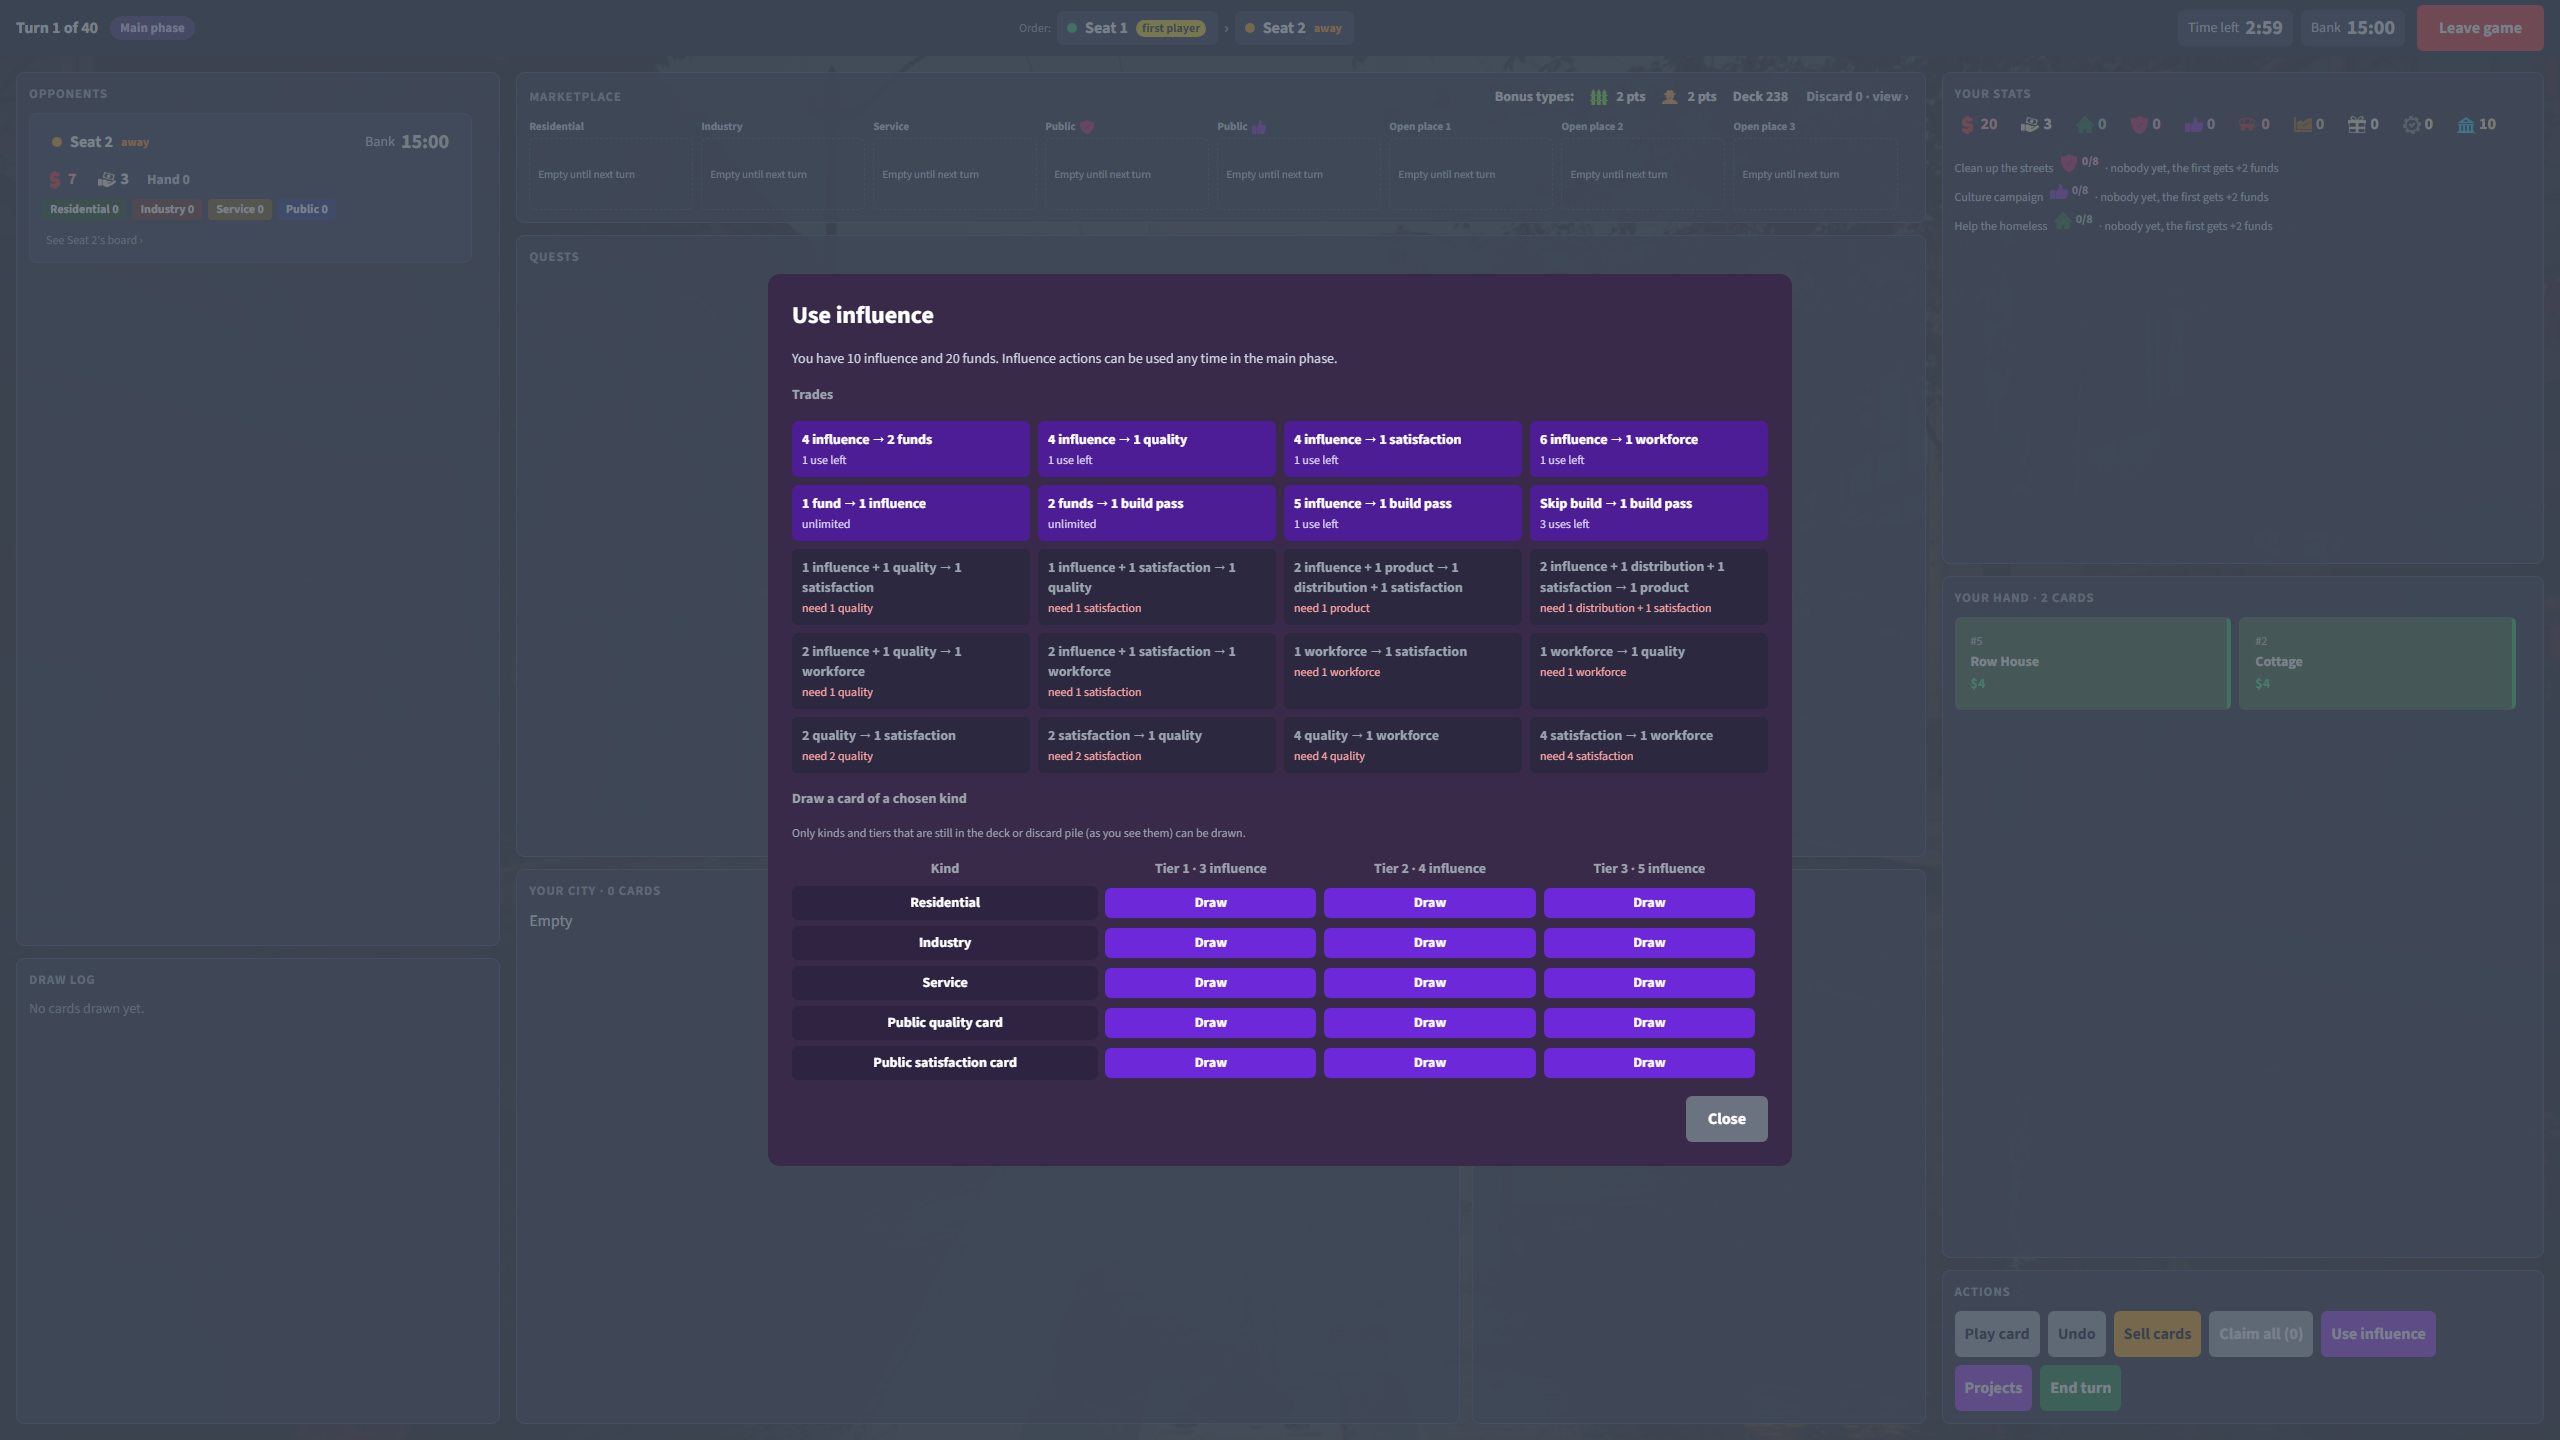
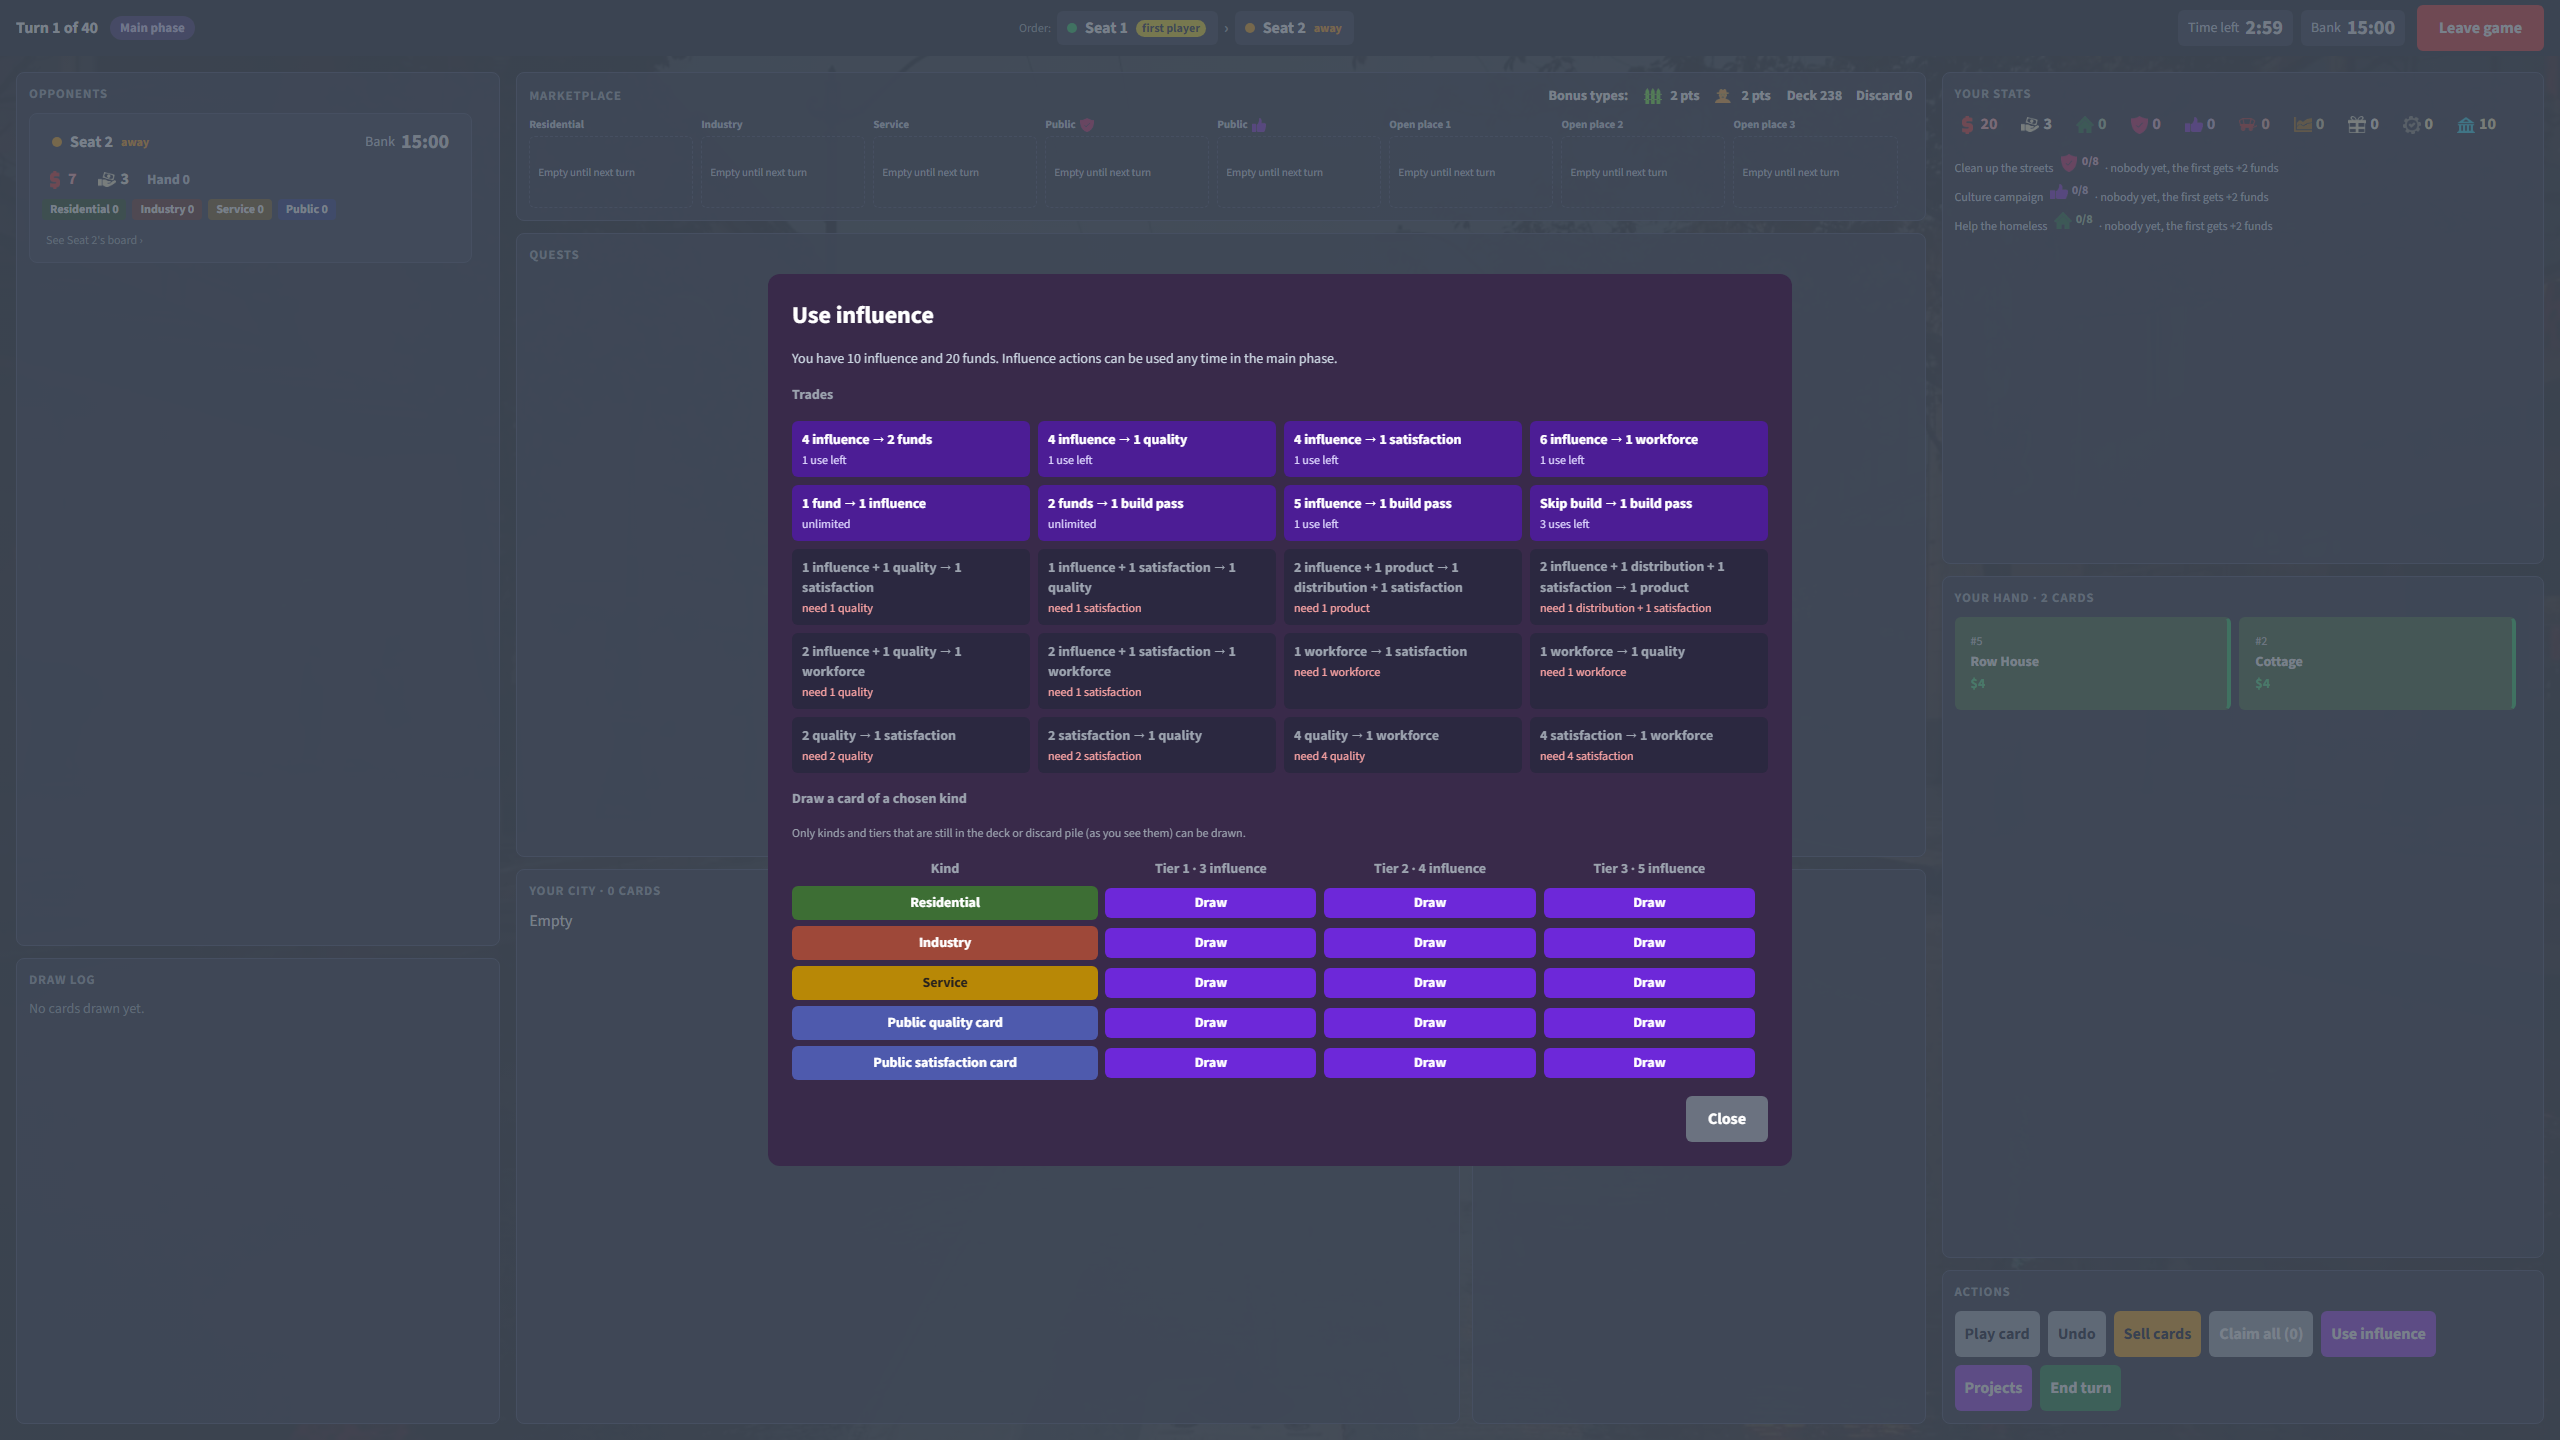
CLIENT: Sector names in quest requirements in their sector colour; the draw table's kind names on their sector colour (S1.5, S5.1, S8.3)

Changed region(s): [[0.3125, 0.5938, 0.4375, 0.75], [0.5938, 0.0625, 0.75, 0.0938]]

diff --git a/src/client/tokens.css b/src/client/tokens.css
@@ -85,6 +85,7 @@
   --color-pending-overlay: #000000;
   --color-sector-industry-base: rgba(158, 72, 57, 0.8);
   --color-sector-industry-card: rgba(214, 55, 30, 0.4);
+  --color-sector-industry-light: #c59188;
   --color-sector-industry-pressed: rgba(171, 85, 70, 0.6);
   --color-sector-industry-solid-text: #ffffff;
   --color-sector-industry-solid: #9e4839;
@@ -93,6 +94,7 @@
   --color-sector-industry-tier3: rgba(48, 8, 0, 0.6);
   --color-sector-public-base: rgba(78, 90, 173, 0.8);
   --color-sector-public-card: rgba(31, 78, 207, 0.4);
+  --color-sector-public-light: #959cce;
   --color-sector-public-pressed: rgba(109, 116, 179, 0.6);
   --color-sector-public-solid-text: #ffffff;
   --color-sector-public-solid: #4e5aad;
@@ -101,6 +103,7 @@
   --color-sector-public-tier3: rgba(3, 15, 94, 0.6);
   --color-sector-residential-base: rgba(61, 110, 52, 0.8);
   --color-sector-residential-card: rgba(39, 148, 19, 0.4);
+  --color-sector-residential-light: #8ba885;
   --color-sector-residential-pressed: rgba(88, 138, 76, 0.6);
   --color-sector-residential-solid-text: #ffffff;
   --color-sector-residential-solid: #3d6e34;
@@ -109,6 +112,7 @@
   --color-sector-residential-tier3: rgba(11, 43, 3, 0.6);
   --color-sector-service-base: rgba(184, 136, 6, 0.8);
   --color-sector-service-card: rgba(227, 194, 57, 0.4);
+  --color-sector-service-light: #d4b86a;
   --color-sector-service-pressed: rgba(214, 164, 39, 0.6);
   --color-sector-service-solid-text: #29231e;
   --color-sector-service-solid: #b88806;

diff --git a/src/client/screens/game/DrawActionTable.tsx b/src/client/screens/game/DrawActionTable.tsx
@@ -2,8 +2,10 @@ import { Kind } from "../../../shared/catalogue/Kind";
 import { Tier } from "../../../shared/catalogue/Tier";
 import { DRAW_ACTION_COSTS } from "../../../shared/DRAW_ACTION_COSTS";
 import type { DrawActionStatus } from "../../../shared/DrawActionStatus";
+import { sectorColor } from "../../components/sectorColor";
 import { DrawActionCell } from "./DrawActionCell";
 import styles from "./InfluenceDialog.module.css";
+import { sectorOfKind } from "./sectorOfKind";
 
 type Props = {
   readonly drawActions: ReadonlyArray<DrawActionStatus>;
@@ -27,7 +29,14 @@ export function DrawActionTable({ drawActions, isBusy, onDraw }: Props) {
       <tbody>
         {Kind.options.map((kind) => (
           <tr key={kind}>
-            <th scope="row" className={styles["kind"]}>
+            <th
+              scope="row"
+              className={styles["kind"]}
+              style={{
+                background: sectorColor(sectorOfKind(kind), "solid"),
+                color: sectorColor(sectorOfKind(kind), "solid-text"),
+              }}
+            >
               {kind}
             </th>
             {Tier.options.map((tier) => (

diff --git a/src/client/screens/game/QuestProgressLine.tsx b/src/client/screens/game/QuestProgressLine.tsx
@@ -4,6 +4,7 @@ import { STAT_ICONS } from "../../icons/STAT_ICONS";
 import { QuestPart } from "./QuestPart";
 import { questNeedIconFile } from "./questNeedIconFile";
 import { questNeedLabel } from "./questNeedLabel";
+import { questNeedSector } from "./questNeedSector";
 import styles from "./QuestsPanel.module.css";
 
 type Props = {
@@ -32,6 +33,7 @@ export function QuestProgressLine({ name, progress, needs }: Props) {
               key={label}
               amount={`${String(have)}/${String(need.count)}`}
               label={label}
+              sector={questNeedSector(need)}
               iconFile={questNeedIconFile(need)}
               spokenText={`${label} ${String(have)} of ${String(need.count)}`}
             />
@@ -44,6 +46,7 @@ export function QuestProgressLine({ name, progress, needs }: Props) {
               key={stat}
               amount={`${String(value)}/0`}
               label={label}
+              sector={null}
               iconFile={STAT_ICONS[stat].file}
               spokenText={`${label} ${String(value)} of 0`}
             />

diff --git a/src/client/screens/game/QuestPart.tsx b/src/client/screens/game/QuestPart.tsx
@@ -1,19 +1,24 @@
+import type { Sector } from "../../../shared/catalogue/Sector";
 import { iconUrl } from "../../icons/iconUrl";
 import styles from "./QuestsPanel.module.css";
+import { SectorNamedText } from "./SectorNamedText";
 
 type Props = {
   readonly amount: string;
   readonly label: string;
+  readonly sector: Sector | null;
   readonly iconFile: string | null;
   readonly spokenText: string;
 };
 
-export function QuestPart({ amount, label, iconFile, spokenText }: Props) {
+export function QuestPart({ amount, label, sector, iconFile, spokenText }: Props) {
   return (
     <span className={styles["part"]} role="img" aria-label={spokenText}>
       <span aria-hidden="true">{amount}</span>
       {iconFile === null ? (
-        <span aria-hidden="true">{label}</span>
+        <span aria-hidden="true">
+          <SectorNamedText text={label} sector={sector} />
+        </span>
       ) : (
         <>
           <img className={styles["icon"]} src={iconUrl(iconFile)} alt="" />

diff --git a/src/client/screens/game/quests.test.tsx b/src/client/screens/game/quests.test.tsx
@@ -89,6 +89,23 @@ describe("quests panel", () => {
     expect(within(card).getByRole("img", { name: "tier 3 Residential card 0 of 1" })).toBeDefined();
   });
 
+  it("writes the sector name of a requirement in its sector colour", () => {
+    showQuests([
+      {
+        quest: "Penthouses",
+        turnsLeft: 5,
+        completeRejection: "quest_needs_not_met",
+        progress: [{ seat: 2, isCompleted: false, have: [2, 0, 1], negativeStats: [] }],
+      },
+    ]);
+    const card = screen.getByRole("region", { name: "Penthouses" });
+    const need = within(card).getByRole("img", { name: "3 tier 2 or 3 Residential cards" });
+    expect(need.textContent).toBe("3tier 2 or 3 Residential cards");
+    expect(within(need).getByText("Residential").style.color).toBe(
+      "var(--color-sector-residential-light)",
+    );
+  });
+
   it("shows a negative workforce, quality or satisfaction as a part not yet met", () => {
     showQuests([
       {

diff --git a/src/client/screens/game/influenceAndUndo.test.tsx b/src/client/screens/game/influenceAndUndo.test.tsx
@@ -116,6 +116,20 @@ describe("use influence", () => {
     });
   });
 
+  it("shows each kind name of the draw table on its sector colour", () => {
+    showGame();
+    const table = within(within(openInfluence()).getByRole("table", { name: "Draw actions" }));
+    expect(
+      table.getAllByRole("rowheader").map((cell) => [cell.textContent, cell.style.background]),
+    ).toEqual([
+      ["Residential", "var(--color-sector-residential-solid)"],
+      ["Industry", "var(--color-sector-industry-solid)"],
+      ["Service", "var(--color-sector-service-solid)"],
+      ["Public quality card", "var(--color-sector-public-solid)"],
+      ["Public satisfaction card", "var(--color-sector-public-solid)"],
+    ]);
+  });
+
   it("shows None left for a kind and tier not left even when every action is disabled", () => {
     showGame({
       ...SEAT,

diff --git a/tools/design-export/BOARD_VALUES.ts b/tools/design-export/BOARD_VALUES.ts
@@ -16,12 +16,16 @@ export const BOARD_VALUES: Readonly<Record<string, string>> = {
   "--color-board-trade-missing": "#fca5a5",
   "--color-board-draw": "#6d28d9",
   "--color-board-draw-kind": "#2e2442",
+  "--color-sector-industry-light": "#c59188",
   "--color-sector-industry-solid": "#9e4839",
   "--color-sector-industry-solid-text": "#ffffff",
+  "--color-sector-public-light": "#959cce",
   "--color-sector-public-solid": "#4e5aad",
   "--color-sector-public-solid-text": "#ffffff",
+  "--color-sector-residential-light": "#8ba885",
   "--color-sector-residential-solid": "#3d6e34",
   "--color-sector-residential-solid-text": "#ffffff",
+  "--color-sector-service-light": "#d4b86a",
   "--color-sector-service-solid": "#b88806",
   "--color-sector-service-solid-text": "#29231e",
   "--font-size-panel-title": "13px",

diff --git a/src/client/screens/game/QuestNeedsLine.tsx b/src/client/screens/game/QuestNeedsLine.tsx
@@ -2,6 +2,7 @@ import type { QuestNeed } from "../../../shared/catalogue/QuestNeed";
 import { QuestPart } from "./QuestPart";
 import { questNeedIconFile } from "./questNeedIconFile";
 import { questNeedLabel } from "./questNeedLabel";
+import { questNeedSector } from "./questNeedSector";
 import styles from "./QuestsPanel.module.css";
 
 type Props = {
@@ -19,6 +20,7 @@ export function QuestNeedsLine({ needs }: Props) {
             key={label}
             amount={String(need.count)}
             label={label}
+            sector={questNeedSector(need)}
             iconFile={questNeedIconFile(need)}
             spokenText={`${String(need.count)} ${label}`}
           />

diff --git a/src/client/screens/game/QuestRewardParts.tsx b/src/client/screens/game/QuestRewardParts.tsx
@@ -20,6 +20,7 @@ export function QuestRewardParts({ reward }: Props) {
         <QuestPart
           amount="+1"
           label={reward.gainedType}
+          sector={null}
           iconFile={typeIconFile(reward.gainedType)}
           spokenText={`gain 1 ${reward.gainedType}`}
         />
@@ -29,6 +30,7 @@ export function QuestRewardParts({ reward }: Props) {
           key={stat}
           amount={`+${String(amount)}`}
           label={STAT_ICONS[stat].label}
+          sector={null}
           iconFile={STAT_ICONS[stat].file}
           spokenText={`+${String(amount)} ${STAT_ICONS[stat].label.toLowerCase()}`}
         />

diff --git a/src/client/screens/game/SectorNamedText.tsx b/src/client/screens/game/SectorNamedText.tsx
@@ -1,0 +1,22 @@
+import type { Sector } from "../../../shared/catalogue/Sector";
+import { sectorColor } from "../../components/sectorColor";
+
+type Props = {
+  readonly text: string;
+  readonly sector: Sector | null;
+};
+
+export function SectorNamedText({ text, sector }: Props) {
+  const start = sector === null ? -1 : text.indexOf(sector);
+  if (sector === null || start === -1) {
+    return <>{text}</>;
+  }
+  const end = start + sector.length;
+  return (
+    <>
+      {text.slice(0, start)}
+      <span style={{ color: sectorColor(sector, "light") }}>{sector}</span>
+      {text.slice(end)}
+    </>
+  );
+}

diff --git a/src/client/components/sectorColor.ts b/src/client/components/sectorColor.ts
@@ -1,7 +1,10 @@
 import type { Sector } from "../../shared/catalogue/Sector";
 import type { Tier } from "../../shared/catalogue/Tier";
 
-export function sectorColor(sector: Sector, tier: Tier | "card" | "solid" | "solid-text"): string {
+export function sectorColor(
+  sector: Sector,
+  tier: Tier | "card" | "light" | "solid" | "solid-text",
+): string {
   const shade = typeof tier === "number" ? `tier${String(tier)}` : tier;
   return `var(--color-sector-${sector.toLowerCase()}-${shade})`;
 }

diff --git a/src/client/screens/game/sectorOfKind.ts b/src/client/screens/game/sectorOfKind.ts
@@ -1,0 +1,14 @@
+import type { Kind } from "../../../shared/catalogue/Kind";
+import type { Sector } from "../../../shared/catalogue/Sector";
+
+export function sectorOfKind(kind: Kind): Sector {
+  switch (kind) {
+    case "Residential":
+    case "Industry":
+    case "Service":
+      return kind;
+    case "Public quality card":
+    case "Public satisfaction card":
+      return "Public";
+  }
+}
